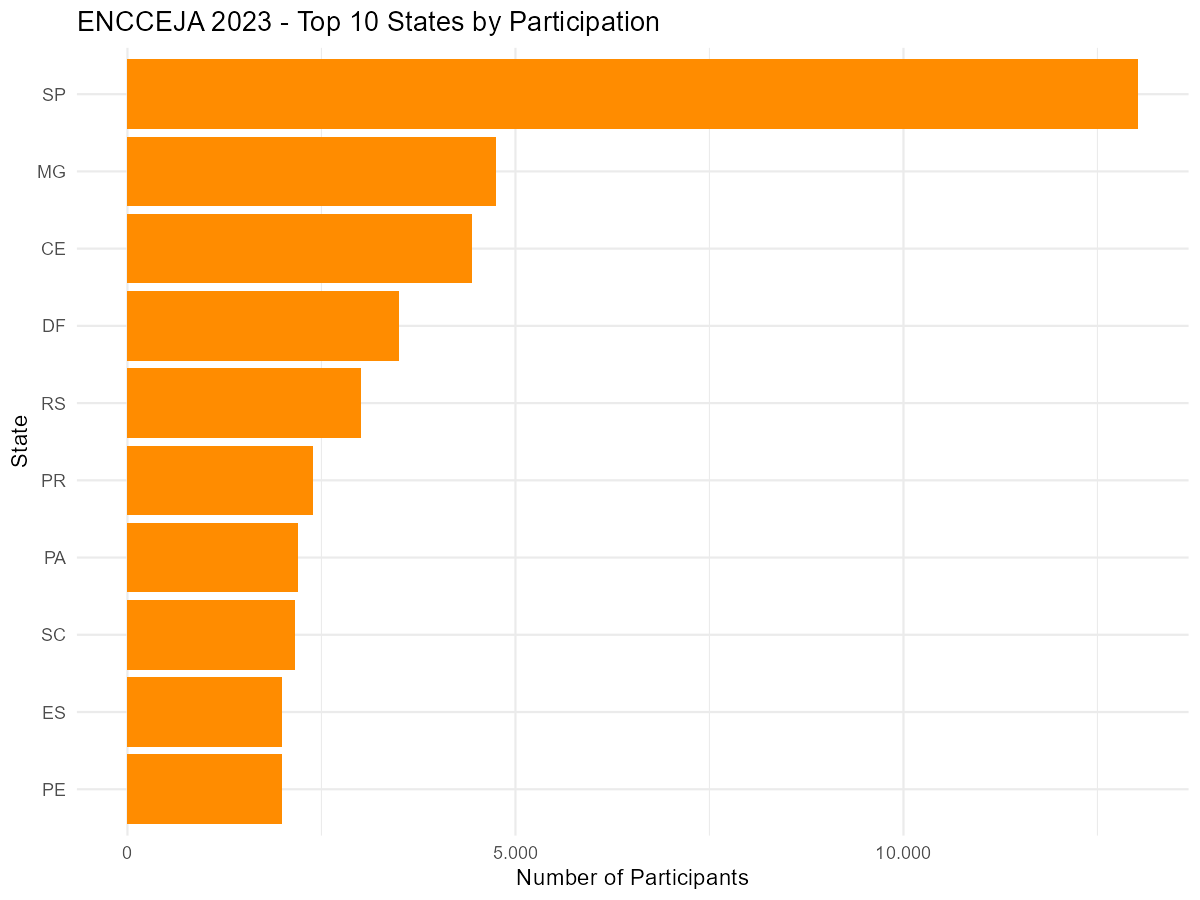
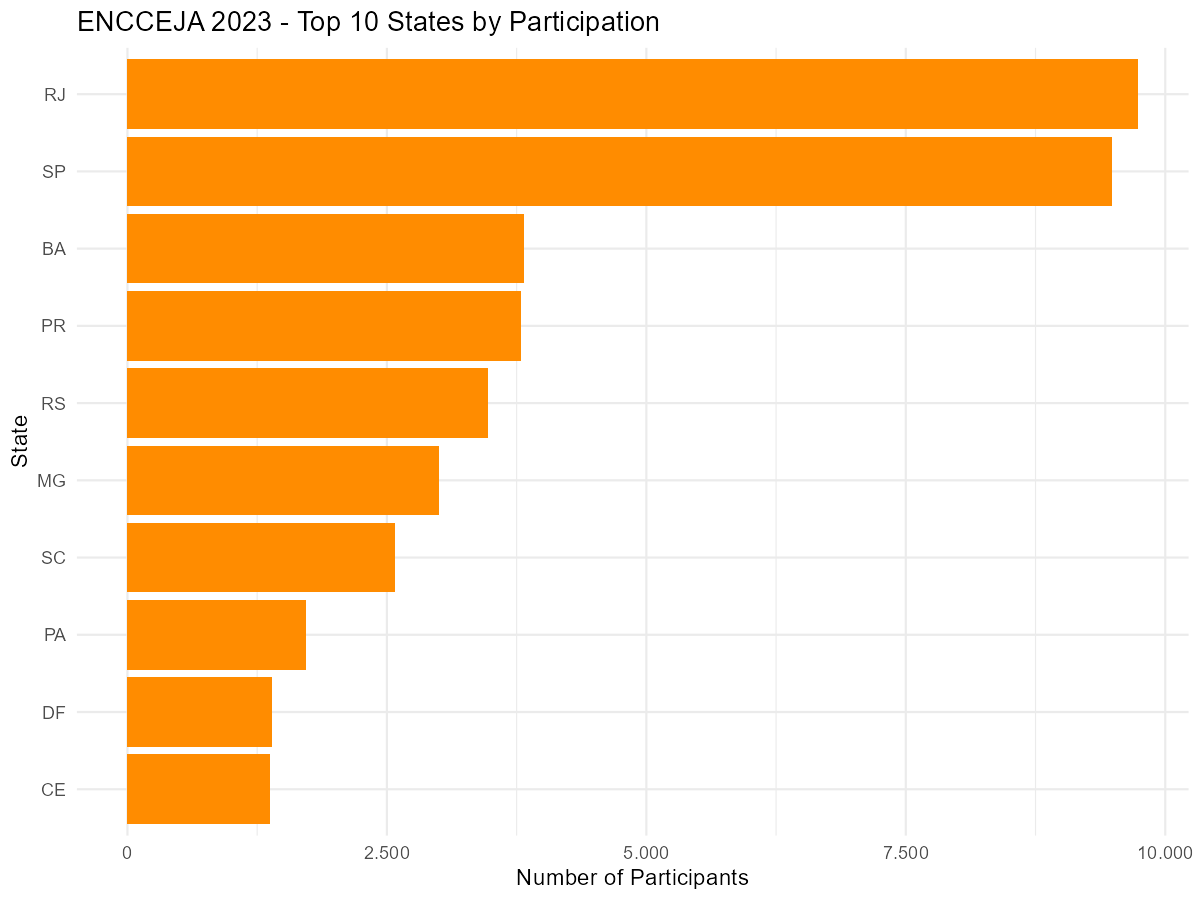
fix(encceja): read the regular exam, add `type`, drop unpublished years (#23)
Each ENCCEJA edition ships a regular file (REG_NAC / REGULAR, 260-940 MB)
and a much smaller one for people deprived of liberty (PPL_NAC / PPL).
find_encceja_file() returned the first "microdados" match, which was the
PPL file in 2014, 2017-2020 and 2022-2025. Same class of defect as #21;
the tests used invented names (microdados_encceja_2023.csv).

- get_encceja() gains type = c("regular", "ppl"); regular is the default.
  Participant files are classified by the REG/REGULAR and PPL markers;
  questionnaires (QSE, QUESTIONARIO) and items are never returned.
- fallback_years() and the HEAD-discovery range drop 2015, 2016 and 2021:
  INEP published no microdata for them (404, re-measured 2026-10-02).
- Tests rebuilt on the real INEP layouts of 2014-2025.
- Verified on the real 2023 files: default -> REG_NAC (124 cols),
  type = "ppl" -> PPL_NAC (43 cols); 2021 rejected listing the years.
- Vignette chart redrawn from the regular file; READMEs, comparison
  vignette and NEWS updated.

Claude-Session: https://claude.ai/code/session_019N4qmH5kMnCnM5DtusVQii

diff --git a/NEWS.md b/NEWS.md
@@ -10,6 +10,15 @@
   has several grades and `serie` is missing, `get_saeb()` stops and lists
   them. For 2011, `type = "aluno"` now reads `TS_RESULTADO_ALUNO`
   (proficiency results) instead of the student questionnaire.
+* `get_encceja()` gains `type = c("regular", "ppl")` and now reads the
+  national regular exam by default. Each edition ships a regular file
+  (`REG_NAC` / `REGULAR`, 260-940 MB) and a much smaller file for people
+  deprived of liberty (`PPL_NAC` / `PPL`), and `get_encceja()` used to
+  load whichever matched first: the PPL file in 2014, 2017-2020 and
+  2022-2025. `type = "ppl"` keeps that file reachable.
+* ENCCEJA years now exclude 2015, 2016 and 2021: INEP published no
+  microdata for those editions (the download URLs return 404), so
+  `get_encceja()` rejects them up front instead of failing at download.
 * `get_enem()` and `get_enem_itens()` now support the 2025 edition,
   published by INEP in 2026. The 2025 zip keeps the split layout
   introduced in 2024 (`PARTICIPANTES_2025.csv`, `RESULTADOS_2025.csv`,

diff --git a/README.pt-br.md b/README.pt-br.md
@@ -124,7 +124,7 @@ remotes::install_github("SidneyBissoli/educabR")
 | ENEM - Exame Nacional do Ensino Médio | `get_enem()`, `get_enem_itens()` | 1998-2025 |
 | Censo Escolar | `get_censo_escolar()` | 1995-2024 |
 | SAEB - Sistema de Avaliação da Educação Básica | `get_saeb()` | 2011-2023 (bienal) |
-| ENCCEJA - Exame Nacional de Certificação de Jovens e Adultos | `get_encceja()` | 2014-2025 |
+| ENCCEJA - Exame Nacional de Certificação de Jovens e Adultos | `get_encceja()` | 2014, 2017-2020, 2022-2025 |
 | ENEM por Escola (descontinuado) | `get_enem_escola()` | 2005-2015 |
 
 ### Educação Superior

diff --git a/README.md b/README.md
@@ -124,7 +124,7 @@ remotes::install_github("SidneyBissoli/educabR")
 | ENEM - National High School Exam | `get_enem()`, `get_enem_itens()` | 1998-2025 |
 | School Census | `get_censo_escolar()` | 1995-2024 |
 | SAEB - Basic Education Assessment System | `get_saeb()` | 2011-2023 (biennial) |
-| ENCCEJA - Youth and Adult Certification Exam | `get_encceja()` | 2014-2025 |
+| ENCCEJA - Youth and Adult Certification Exam | `get_encceja()` | 2014, 2017-2020, 2022-2025 |
 | ENEM by School (discontinued) | `get_enem_escola()` | 2005-2015 |
 
 ### Higher Education
